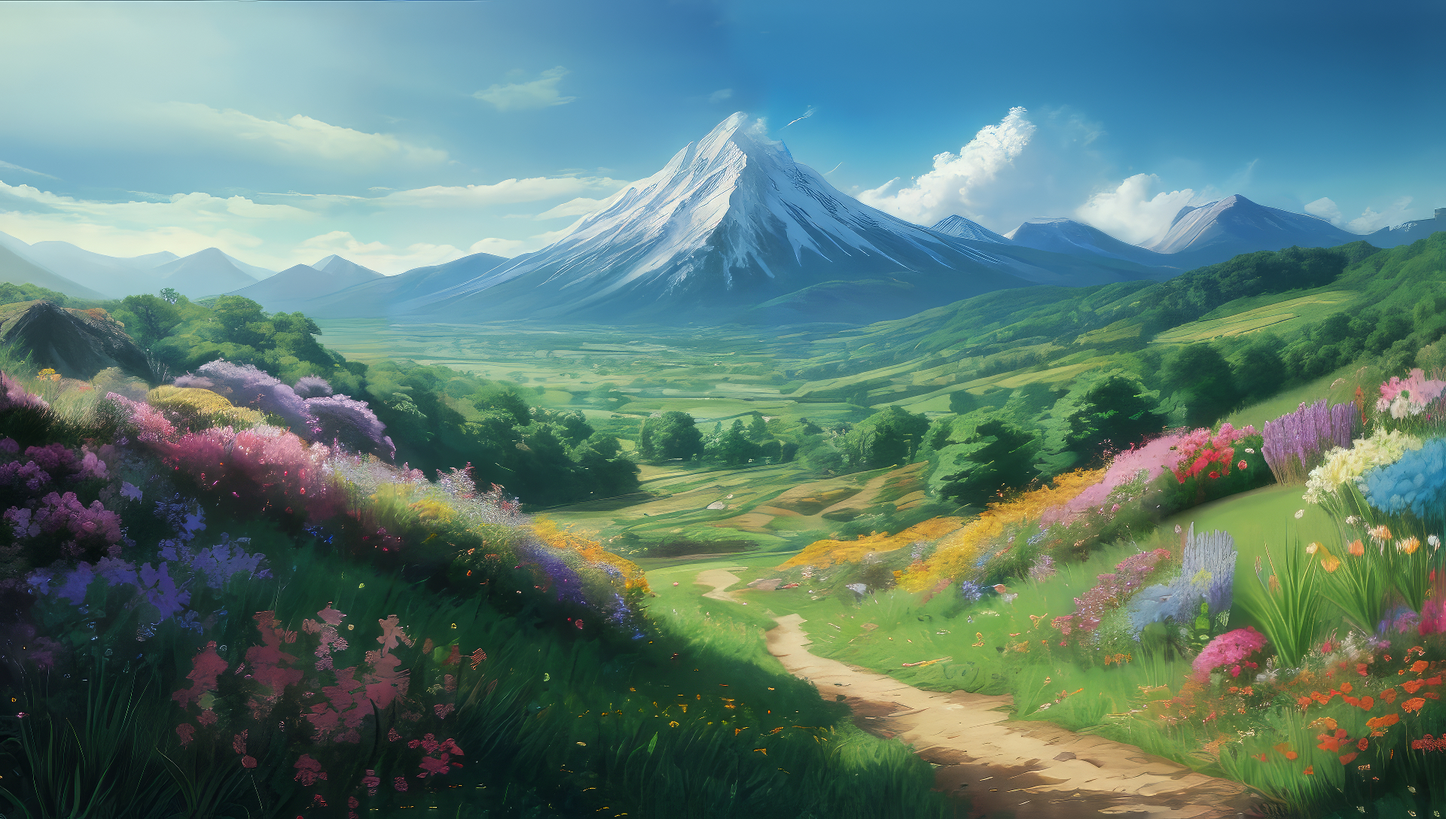
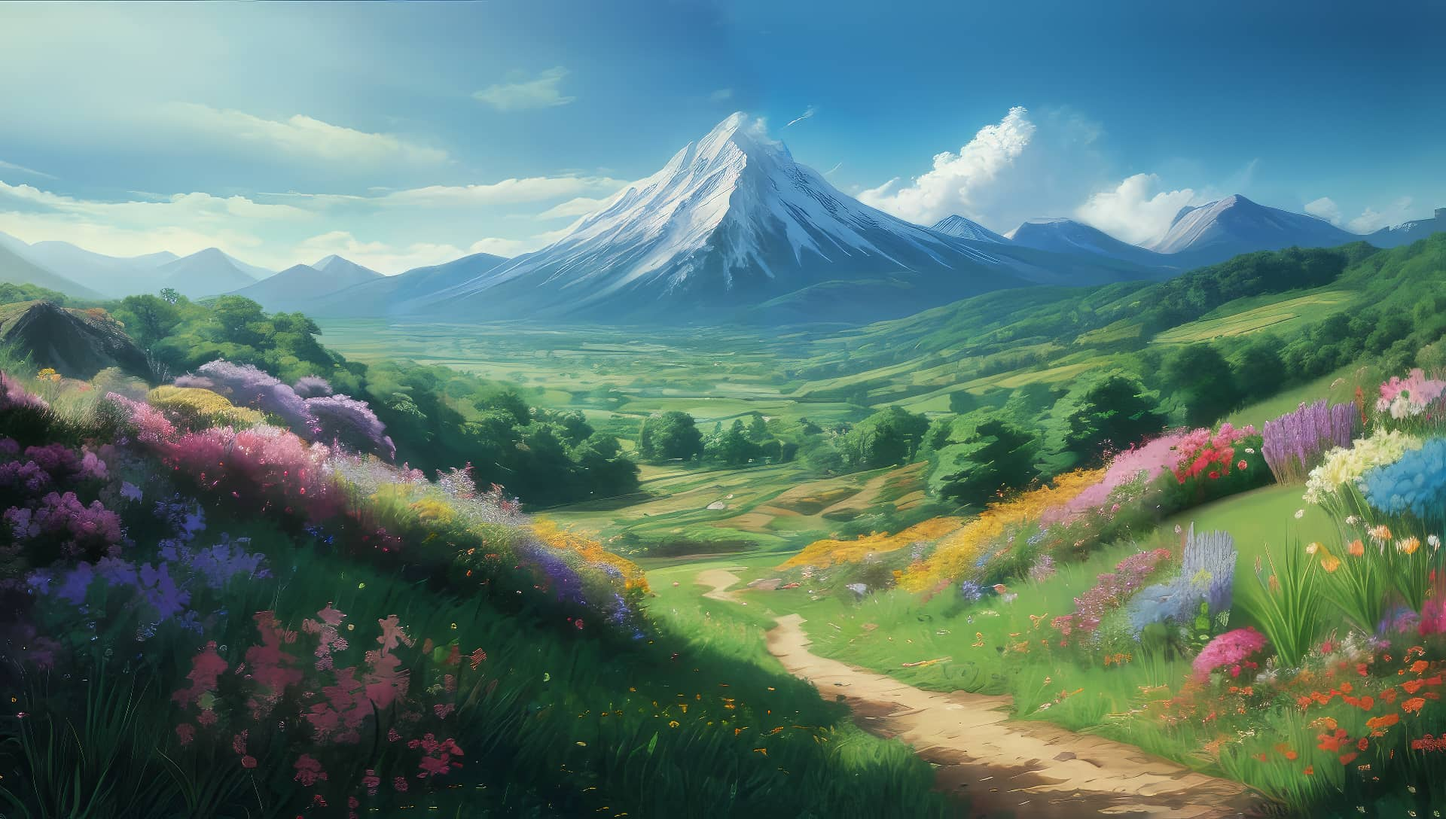
refactor: optimization img

diff --git a/src/pages/Home/ui/Home.ts b/src/pages/Home/ui/Home.ts
@@ -2,7 +2,7 @@ import { Header } from '@/widgets/Header';
 import { BaseComponent, Parallax3D } from 'Core';
 
 import IMG_LAYER_0 from '@/shared/assets/img/layer-0.jpg';
-import IMG_LAYER_1 from '@/shared/assets/img/layer-1.png';
+import IMG_LAYER_1 from '@/shared/assets/img/layer-1.webp';
 
 import './style.scss';
 
